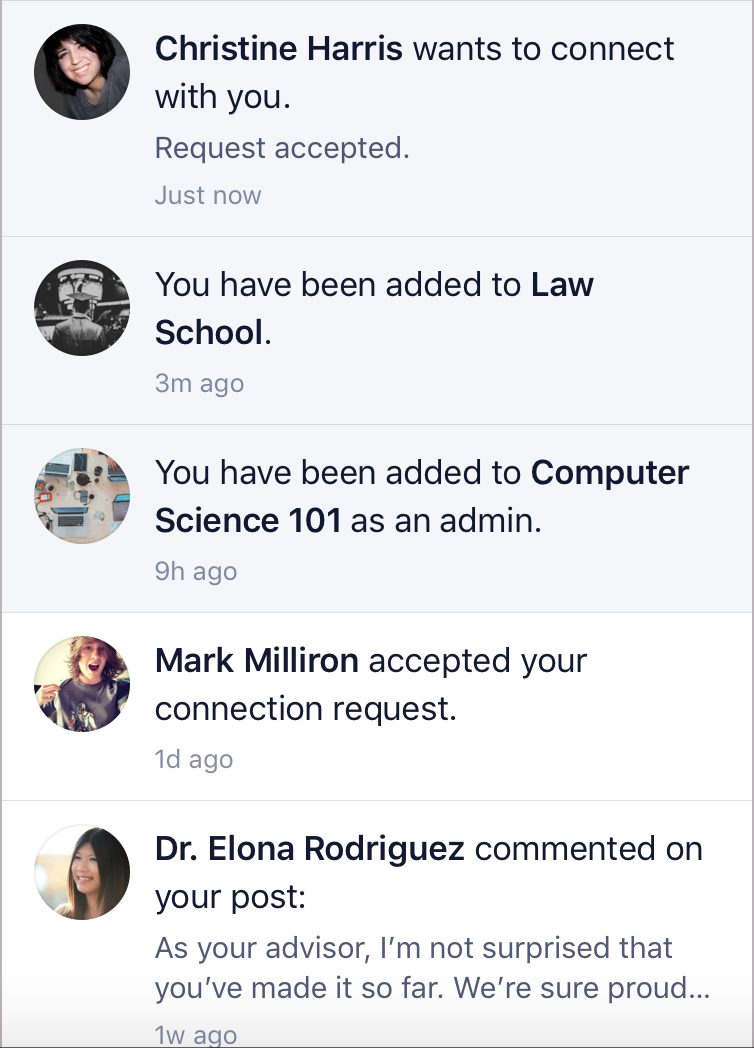
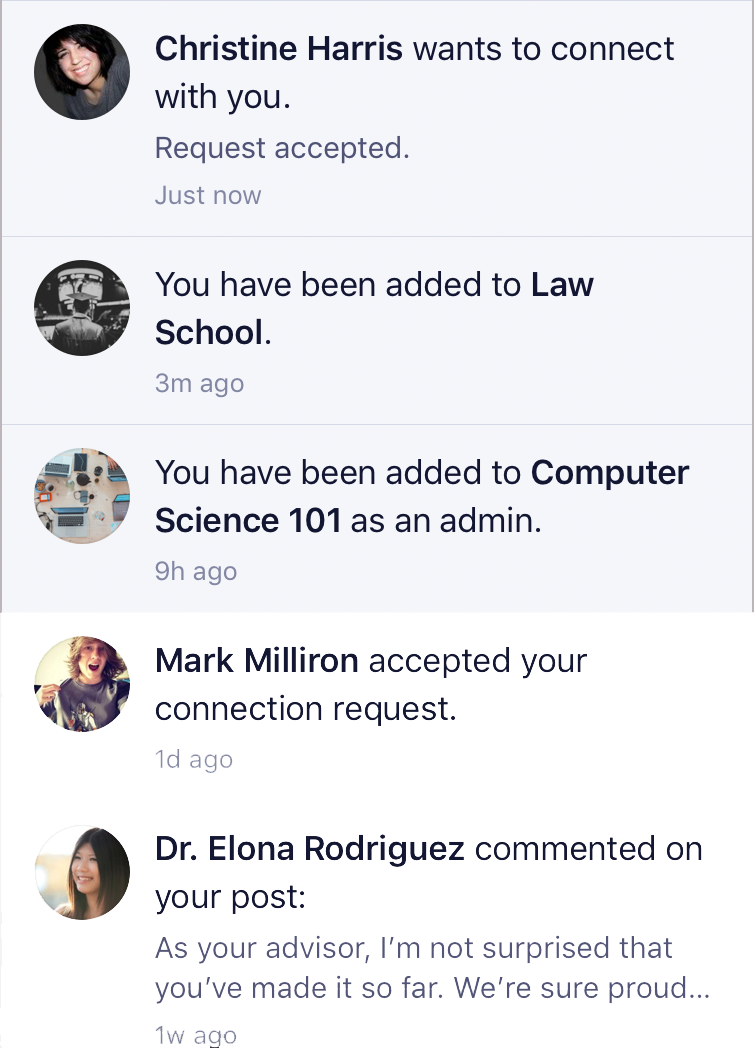
added emoty data images

diff --git a/lib/screens/login_screen.dart b/lib/screens/login_screen.dart
@@ -1,23 +1,28 @@
 import 'package:flutter/material.dart';
 import 'package:flutter_app/ui_utils.dart';
+import 'dart:async' show Future;
+import 'package:flutter/services.dart' show rootBundle;
 
 class NotificationsWidget extends StatelessWidget {
+
   @override
   Widget build(BuildContext context) {
     return Scaffold(
-      backgroundColor: HexColor("#ffffff"),
-      appBar: AppBar(
-        title: Text('Notifications'),
-      ),
-      body: Center(
+        backgroundColor: UIConst.backgroundContentColor,
+        appBar: AppBar(
+          title: Text('Notifications'),
+        ),
+        body: Center(
           child: Flex(
-        direction: Axis.vertical,
-        children: <Widget>[
-          new Image.asset('images/notifications.png'),
-        ],
-      )),
+              direction: Axis.vertical,
+              children: <Widget>[
+              new Image.asset('images/notifications.png'),
+            ],
+          )
+        ),
     );
   }
+
 }
 
 class PictureWidget extends StatelessWidget {
@@ -29,8 +34,7 @@ class PictureWidget extends StatelessWidget {
       decoration: new BoxDecoration(
         shape: BoxShape.rectangle,
         color: null,
-        image: new DecorationImage(
-            image: new AssetImage("assets/notifications.png")),
+        image: new DecorationImage(image: new AssetImage("assets/notifications.png")),
       ),
     );
   }

diff --git a/lib/screens/messages_widget.dart b/lib/screens/messages_widget.dart
@@ -1,16 +1,21 @@
 import 'package:flutter/material.dart';
+import 'package:flutter_app/ui_utils.dart';
 
 class MessagesWidget extends StatelessWidget {
-
   @override
   Widget build(BuildContext context) {
     return Scaffold(
-        appBar: AppBar(
-          title: Text('Messages'),
-        ),
-        body: Center(
-          child: Text('Messages content'),
-        ),
+      backgroundColor: HexColor("#ffffff"),
+      appBar: AppBar(
+        title: Text('Messages'),
+      ),
+      body: Center(
+          child: Flex(
+        direction: Axis.vertical,
+        children: <Widget>[
+          new Image.asset('images/messages.png'),
+        ],
+      )),
     );
   }
 }

diff --git a/lib/screens/more_widget.dart b/lib/screens/more_widget.dart
@@ -1,16 +1,21 @@
 import 'package:flutter/material.dart';
+import 'package:flutter_app/ui_utils.dart';
 
 class MoreWidget extends StatelessWidget {
-
   @override
   Widget build(BuildContext context) {
     return Scaffold(
-        appBar: AppBar(
-          title: Text('More'),
-        ),
-        body: Center(
-          child: Text('More content'),
-        ),
+      backgroundColor: HexColor("#ffffff"),
+      appBar: AppBar(
+        title: Text('More'),
+      ),
+      body: Center(
+          child: Flex(
+        direction: Axis.vertical,
+        children: <Widget>[
+          new Image.asset('images/more.png'),
+        ],
+      )),
     );
   }
 }

diff --git a/lib/screens/groups_widget.dart b/lib/screens/groups_widget.dart
@@ -1,16 +1,17 @@
 import 'package:flutter/material.dart';
+import 'package:flutter_app/ui_utils.dart';
 
 class GroupsWidget extends StatelessWidget {
-
   @override
   Widget build(BuildContext context) {
     return Scaffold(
-        appBar: AppBar(
-          title: Text('Groups'),
-        ),
-        body: Center(
-          child: Text('Groups content'),
-        ),
+      backgroundColor: HexColor("#ffffff"),
+      appBar: AppBar(
+        title: Text('Groups'),
+      ),
+      body: Center(
+        child: Text('Groups content'),
+      ),
     );
   }
 }

diff --git a/lib/screens/actvity_widget.dart b/lib/screens/actvity_widget.dart
@@ -93,7 +93,7 @@ class _ActivityWidgetState extends State<ActivityWidget> {
     );
 
     return Scaffold(
-      backgroundColor: UIConst.backgroundContentColor,
+      backgroundColor: HexColor("#ffffff"),
       appBar: AppBar(
         title: Text('Activity'),
       ),
